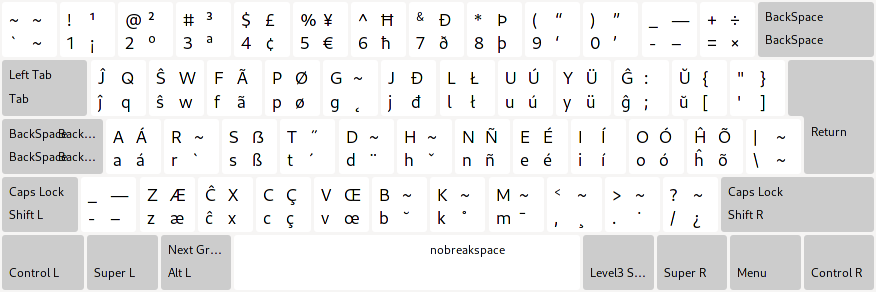
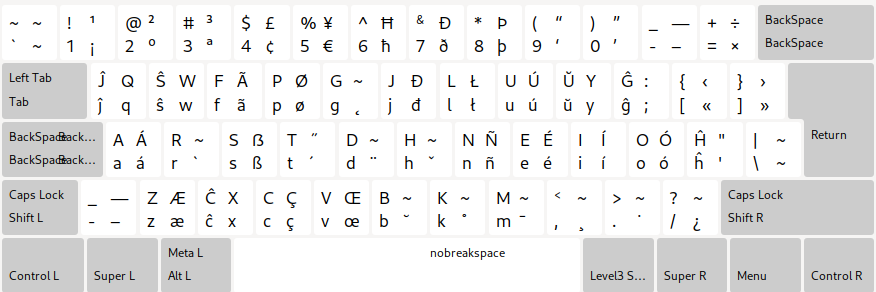
update ux

diff --git a/LINUX.md b/LINUX.md
@@ -13,10 +13,9 @@ xkb_symbols "colemak_eo" {
 
   key <AD01> {[ jcircumflex, Jcircumflex, q,            Q          ]};
   key <AD02> {[ scircumflex, Scircumflex, w,            W          ]};
+  key <AD09> {[ ubreve,      Ubreve,      y,            Y          ]};
   key <AD10> {[ gcircumflex, Gcircumflex, semicolon,    colon      ]};
-  key <AD11> {[ ubreve,      Ubreve,      bracketleft,  braceleft  ]};
-  key <AD12> {[ apostrophe,  quotedbl,    bracketright, braceright ]};
-  key <AC11> {[ hcircumflex, Hcircumflex                           ]};
+  key <AC11> {[ hcircumflex, Hcircumflex, apostrophe,   quotedbl   ]};
   key <AB02> {[ ccircumflex, Ccircumflex, x,            X          ]};
 
   include "level3(ralt_switch)"

diff --git a/README.md b/README.md
@@ -1,4 +1,4 @@
-## Esperanto (Colemak) keyboard layout
+# Esperanto (Colemak) keyboard layout
 
 ![preview esperanto colemak](preview.png)
 
